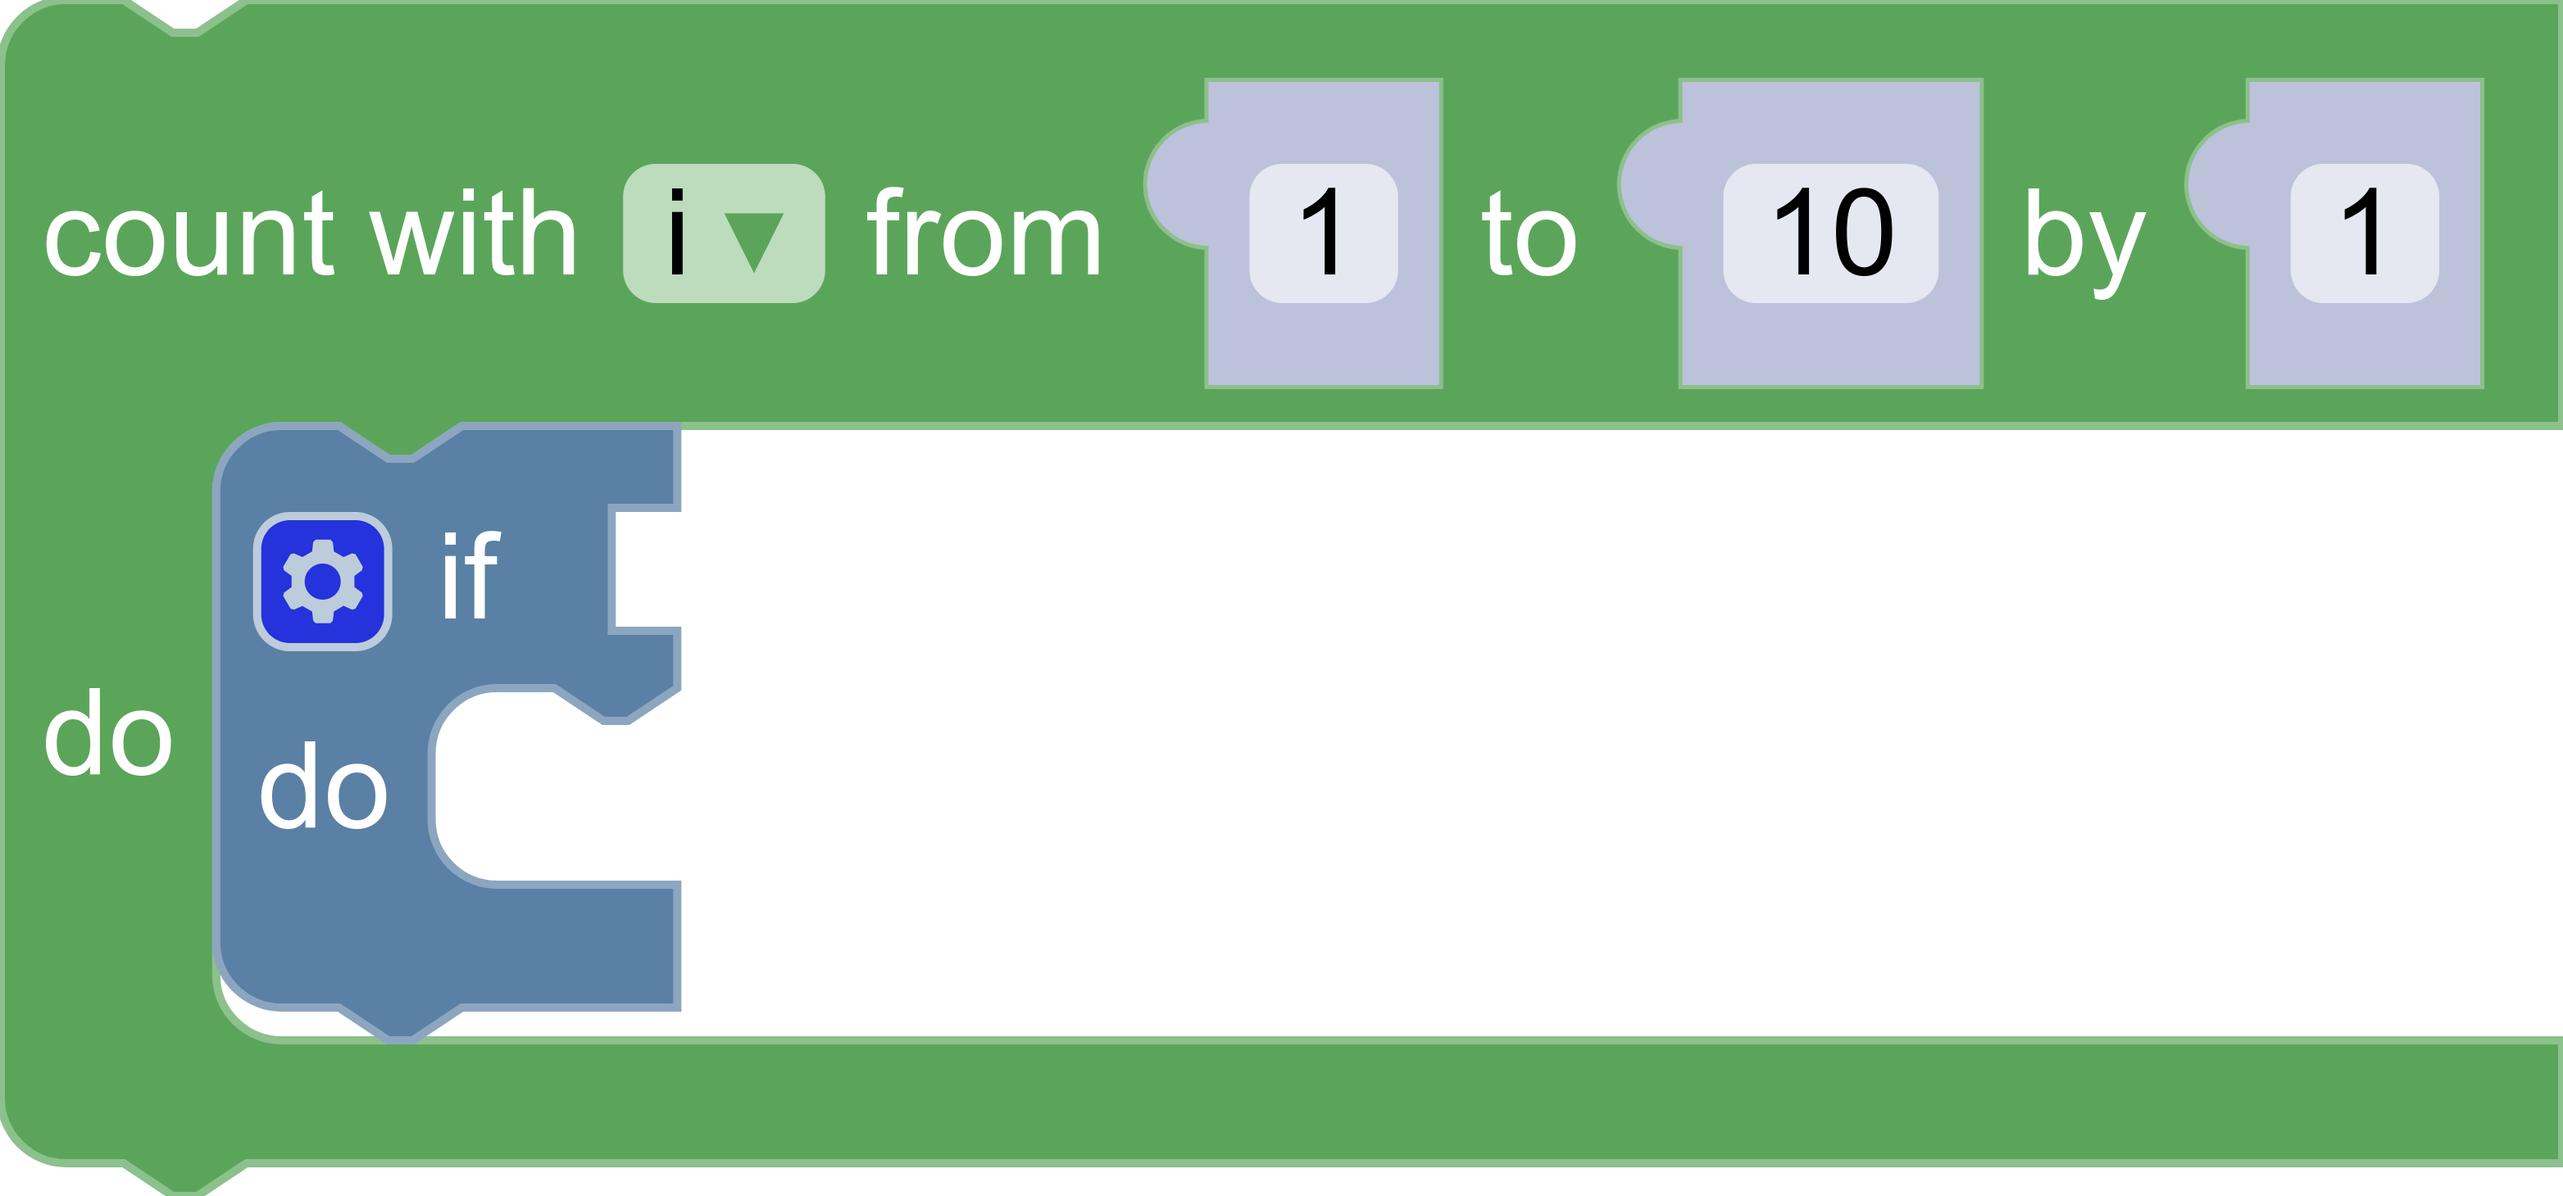
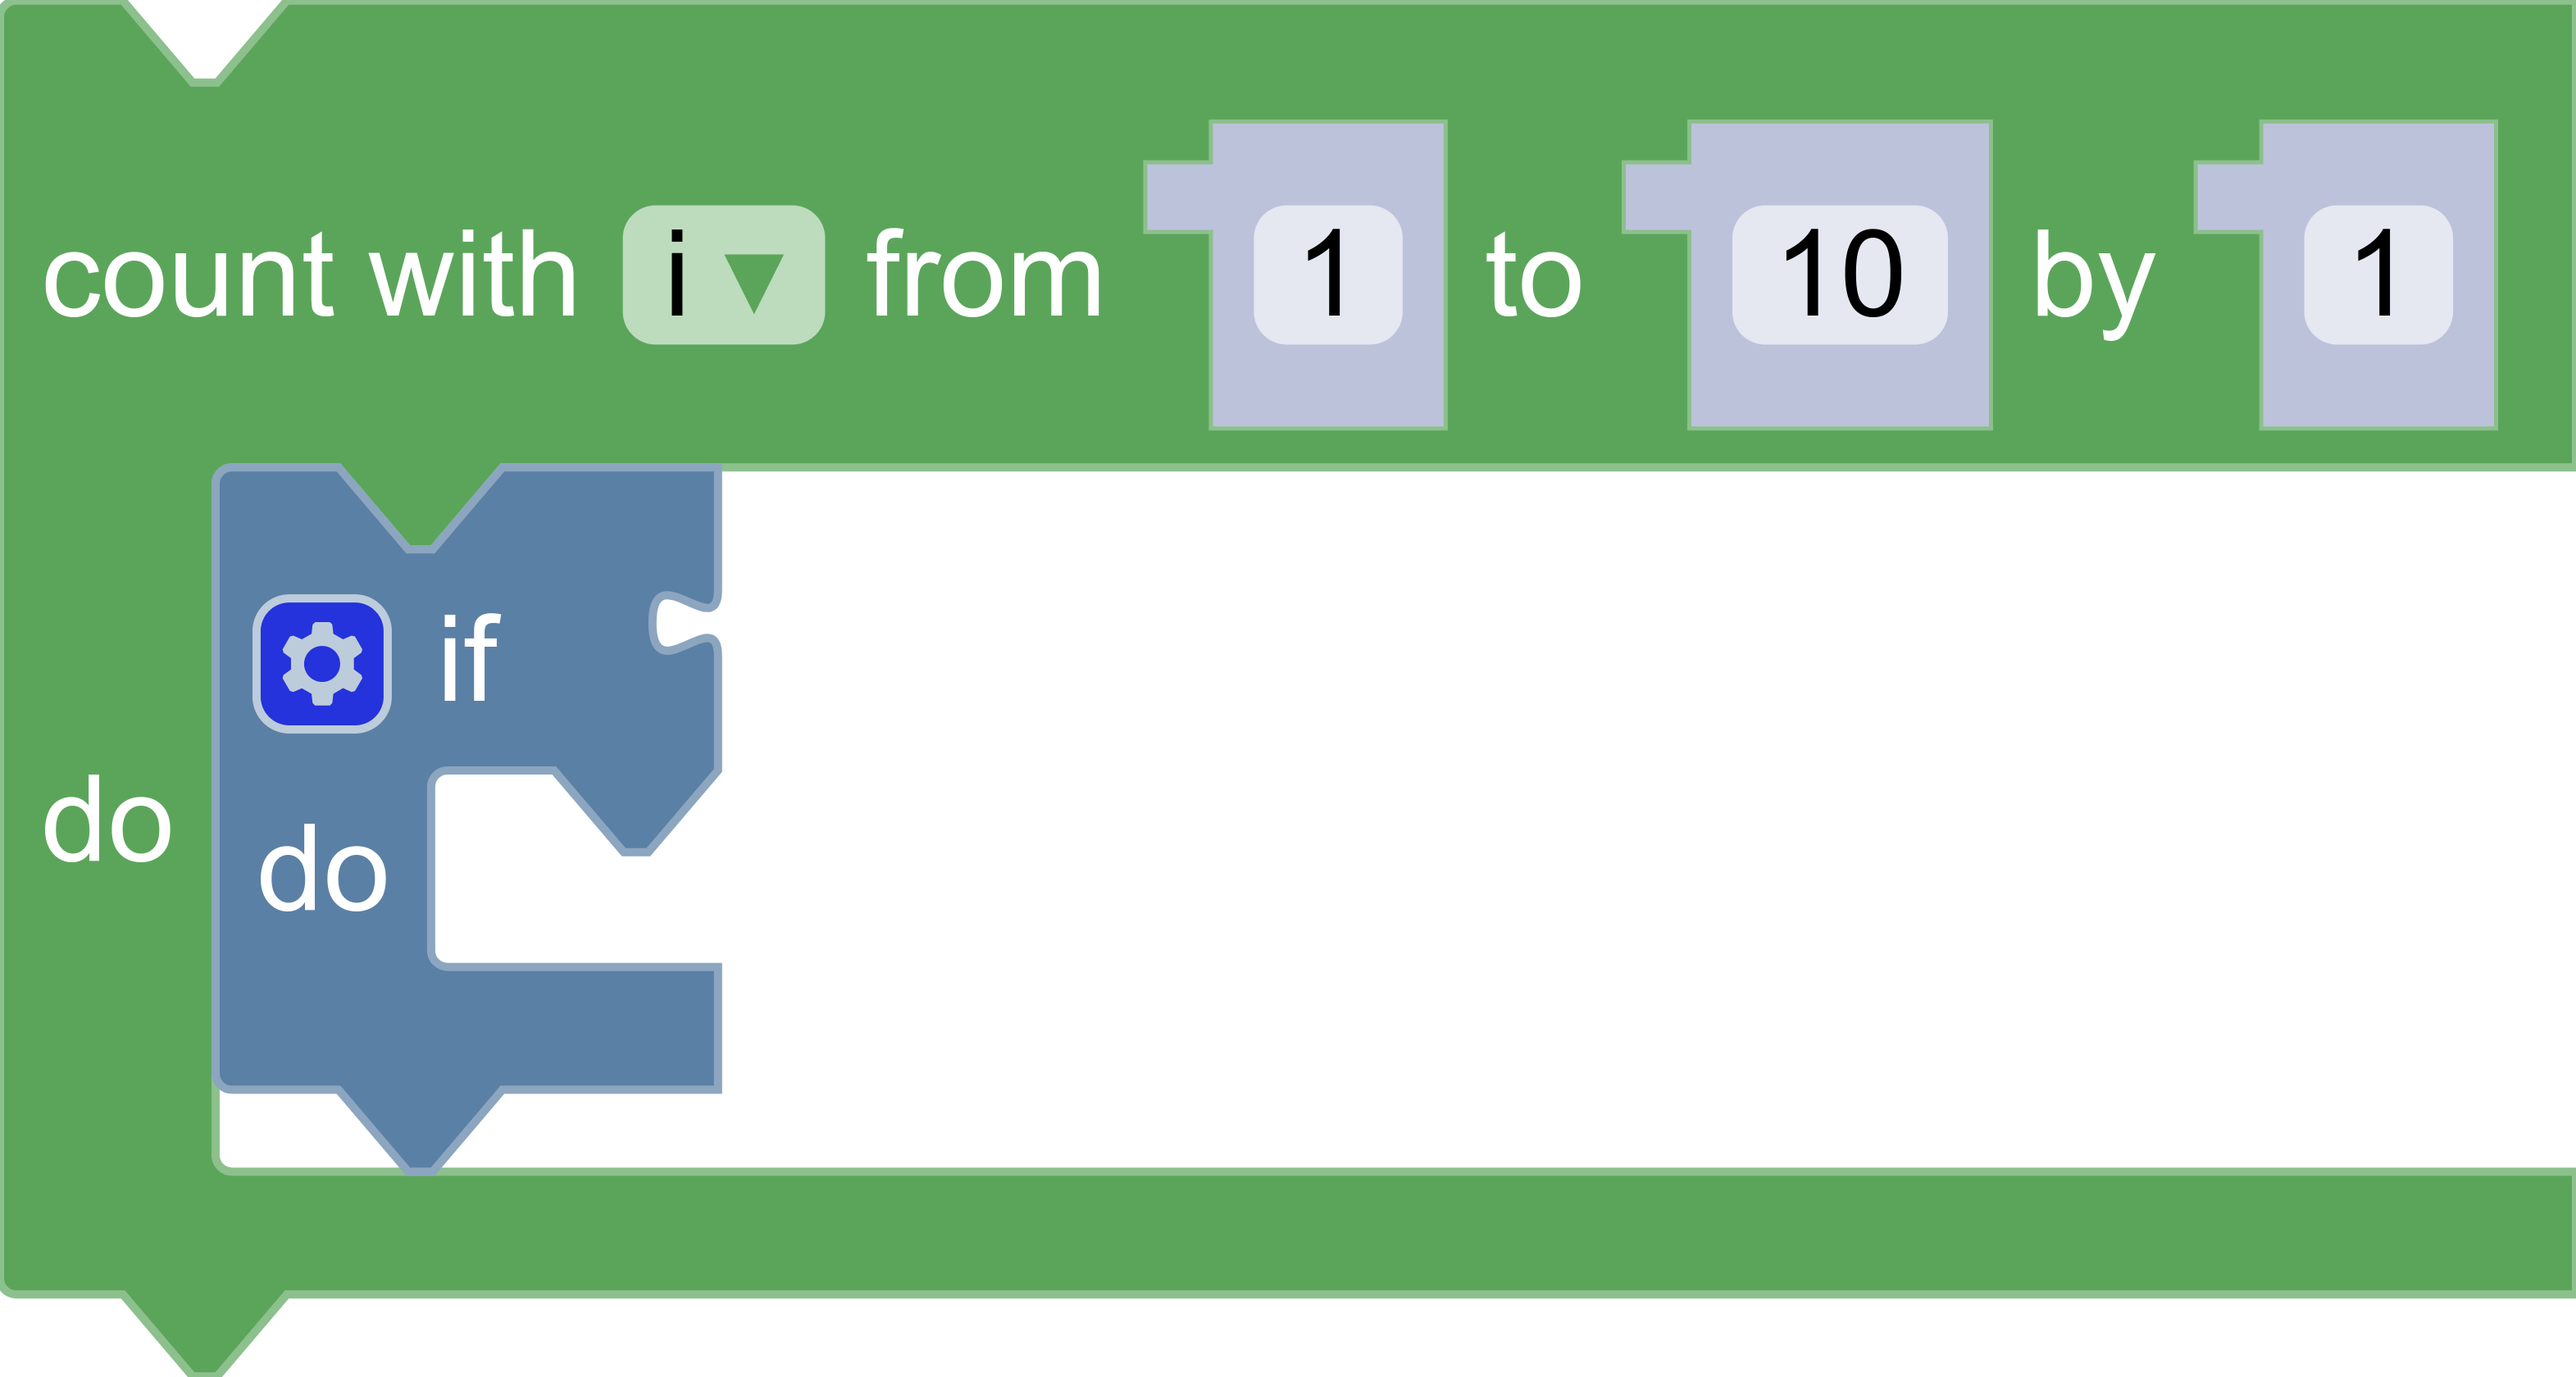
Finish rewrite

diff --git a/codelabs/custom_renderer.md b/codelabs/custom_renderer.md
@@ -136,7 +136,7 @@ The resulting block has triangular previous and next connections, and skinny inp
 
 ![](assets/custom-renderer/custom_constants.png)
 
-## Change connection shapes
+## Understand connection shapes
 
 A common use case of a custom renderer is changing the shape of connections. This requires a more detailed understanding of how a block is drawn and how SVG paths are defined.
 
@@ -148,7 +148,70 @@ Each sub-path is a string of [path commands](https://developer.mozilla.org/en-US
 
 While you can write SVG path commands as strings, Blockly provides a set of [utility functions](https://developers.google.com/blockly/reference/js/Blockly.utils.svgPaths) to make writing and reading paths easier.
 
-### Changing previous/next connection shape
+### Connection shapes
+
+A connection's shape is stored as an object with information about its width, height, and sub-path. These objects are created in the constant provider's `init` function:
+
+```js
+/**
+ * Initialize shape objects based on the constants set in the constructor.
+ * @package
+ */
+Blockly.blockRendering.ConstantProvider.prototype.init = function() {
+  /**
+   * An object containing sizing and path information about notches.
+   * @type {!Object}
+   */
+  this.NOTCH = this.makeNotch();
+
+  /**
+   * An object containing sizing and path information about puzzle tabs.
+   * @type {!Object}
+   */
+  this.PUZZLE_TAB = this.makePuzzleTab();
+
+  // Additional code has been removed for brevity.
+};
+```
+
+As a rule of thumb, **properties that are primitives should be set in the constructor, while objects should be set in `init`**. This separation allows a subclass to override a constant such as `NOTCH_WIDTH` and see the change reflected in objects that depend on the constant.
+
+### `shapeFor`
+
+The `shapeFor` function on a constants provider maps from connection to connection shape. Here is the default implementation, which returns a puzzle tab for input/output connections and a notch for previous/next connections:
+
+```js
+/**
+ * Get an object with connection shape and sizing information based on the type
+ * of the connection.
+ * @param {!Blockly.RenderedConnection} connection The connection to find a
+ *     shape object for
+ * @return {!Object} The shape object for the connection.
+ * @package
+ */
+Blockly.blockRendering.ConstantProvider.prototype.shapeFor = function(
+    connection) {
+  switch (connection.type) {
+    case Blockly.INPUT_VALUE:
+    case Blockly.OUTPUT_VALUE:
+      return this.PUZZLE_TAB;
+    case Blockly.PREVIOUS_STATEMENT:
+    case Blockly.NEXT_STATEMENT:
+      return this.NOTCH;
+    default:
+      throw Error('Unknown connection type');
+  }
+};
+```
+
+## Change conenction shapes
+
+In this step you will define and use new shapes for previous/next connections and input/output connections. This takes three steps:
+1. Define new shape objects.
+1. Override `init` to store the new shape objects.
+1. Override `shapeFor` to return the new objects.
+
+### Define a previous/next connection shape
 
 The outline path is drawn clockwise around the block, starting at the top left. As a result the previous connection is drawn from left to right, while the next connection is drawn from right to left.
 
@@ -158,15 +221,14 @@ Previous and next connections are defined by the same object. The object has fou
 - `pathLeft`: The sub-path that describes the connection when drawn from left to right.
 - `pathRight`: The sub-path that describes the connection when drawn from right to left.
 
-The constants provider calls `makeNotch()` during initialization to create this object. You can override the function on your `CustomConstantsProvider`. Note that `NOTCH_WIDTH` and `NOTCH_HEIGHT` have already been overridden in the constructor.
+Define a new function called `makeRectangularPreviousConn`. Note that `NOTCH_WIDTH` and `NOTCH_HEIGHT` have already been overridden in the constructor.
 
 ```js
 /**
- * Override the `makeNotch` function to return a rectangular notch for previous
- * and next connections.
+ * Return a rectangular notch for use with previous and next connections.
  * @override
  */
-CustomConstantsProvider.prototype.makeNotch = function() {
+CustomConstantsProvider.prototype.makeRectangularPreviousConn = function() {
   var width = this.NOTCH_WIDTH;
   var height = this.NOTCH_HEIGHT;
 
@@ -194,7 +256,7 @@ CustomConstantsProvider.prototype.makeNotch = function() {
 };
 ```
 
-### Changing input/output connection shape
+### Define input/output connection shape
 
 By the same logic input and output connections are drawn in two directions: top to bottom, and bottom to top. The object contains four properties:
 - `width`
@@ -202,15 +264,14 @@ By the same logic input and output connections are drawn in two directions: top 
 - `pathUp`
 - `pathDown`
 
-The function to override is `makePuzzleTab()`:
+Define a new function called `makeRectangularInputConn`:
 
 ```js
 /**
- * Override the `makePuzzleTab` function to return a rectangular puzzle tab for
- * input and output connections.
+ * Return a rectangular puzzle tab for use with input and output connections.
  * @override
  */
-CustomConstantsProvider.prototype.makePuzzleTab = function() {
+CustomConstantsProvider.prototype.makeRectangularInputConn = function() {
   var width = this.TAB_WIDTH;
   var height = this.TAB_HEIGHT;
 
@@ -239,6 +300,45 @@ CustomConstantsProvider.prototype.makePuzzleTab = function() {
 };
 ```
 
+### Override init
+
+Override the `init` function and store the new objects as `RECT_PREV_NEXT` and `RECT_INPUT_OUTPUT`. Make sure you call the superclass `init` function to store other objects that you have not overridden.
+
+```js
+/**
+ * @override
+ */
+CustomConstantsProvider.prototype.init = function() {
+  CustomConstantsProvider.superClass_.init.call(this);
+  // Add calls to create shape objects for the new connection shapes.
+  this.RECT_PREV_NEXT = this.makeRectangularPreviousConn();
+  this.RECT_INPUT_OUTPUT = this.makeRectangularInputConn();
+};
+```
+
+### Override shapeFor
+
+Next, override the `shapeFor` function and return your new objects:
+
+```js
+/**
+ * @override
+ */
+CustomConstantsProvider.prototype.shapeFor = function(
+    connection) {
+  switch (connection.type) {
+    case Blockly.INPUT_VALUE:
+    case Blockly.OUTPUT_VALUE:
+      return this.RECT_INPUT_OUTPUT;
+    case Blockly.PREVIOUS_STATEMENT:
+    case Blockly.NEXT_STATEMENT:
+      return this.RECT_PREV_NEXT;
+    default:
+      throw Error('Unknown connection type');
+  }
+};
+```
+
 ### The result
 
 The resulting block has rectangular connections for all four connection types.
@@ -247,137 +347,32 @@ The resulting block has rectangular connections for all four connection types.
 
 ## Typed connection shapes
 
-In this step we will create a renderer that sets connection shapes at runtime based on a connection's type checks.
+In this step we will create a renderer that sets connection shapes at runtime based on a connection's type checks. We will use the default connection shapes and the shapes defined in the previous steps.
 
+### Override shapeFor
 
-### Define your renderer and constants provider
-Create and include a new file named `typed_connection_shapes.js`, and add it to the renderer dropdown.
-
-Define a renderer named `TypedConnectionShapeRenderer` and a constants provider named `TypedConnectionShapeProvider`.
-
-```js
-TypedConnectionShapeRenderer = function(name) {
-  TypedConnectionShapeRenderer.superClass_.constructor.call(this, name);
-};
-Blockly.utils.object.inherits(TypedConnectionShapeRenderer,
-    Blockly.blockRendering.Renderer);
-
-Blockly.blockRendering.register('typed_connection_shapes',
-    TypedConnectionShapeRenderer);
-
-TypedConnectionShapeProvider = function() {
-  TypedConnectionShapeProvider.superClass_.constructor.call(this);
-};
-Blockly.utils.object.inherits(TypedConnectionShapeProvider,
-    Blockly.blockRendering.ConstantProvider);
-
-TypedConnectionShapeRenderer.prototype.makeConstants_ = function() {
-  return new TypedConnectionShapeProvider();
-};
-```
-
-### Define shapes
-
-Define the `makeSquared` and `makeRounded` functions to return rectangular and rounded shapes respectively.
-
-```js
-/**
- * Create a new function to return a rectangular puzzle tab that works for input
- * and output connections.
- */
-TypedConnectionShapeProvider.prototype.makeSquared = function() {
-  var width = this.TAB_WIDTH;
-  var height = this.TAB_HEIGHT;
-
-  function makeMainPath(up) {
-    return Blockly.utils.svgPaths.line(
-        [
-          Blockly.utils.svgPaths.point(-width, 0),
-          Blockly.utils.svgPaths.point(0, -1 * up * height),
-          Blockly.utils.svgPaths.point(width, 0)
-        ]);
-  }
-
-  var pathUp = makeMainPath(1);
-  var pathDown = makeMainPath(-1);
-
-  return {
-    width: width,
-    height: height,
-    pathDown: pathDown,
-    pathUp: pathUp
-  };
-};
-
-/**
- * Create a new function to return a rounded puzzle tab that works for input and
- * output connections.
- */
-TypedConnectionShapeProvider.prototype.makeRounded = function() {
-  var height = this.TAB_HEIGHT;
-
-  // The 'up' and 'down' versions of the paths are the same, but the Y sign
-  // flips.
-  function makeMainPath(up) {
-    var width = height / 2;
-    return Blockly.utils.svgPaths.arc(
-        'a',
-        '0 0 ' + (up ? 1 : 0),
-        width,
-        Blockly.utils.svgPaths.point(0, (up ? -1 : 1) * height)
-    );
-  }
-
-  var pathUp = makeMainPath(true);
-  var pathDown = makeMainPath(false);
-
-  return {
-    width: height / 2,
-    height: height,
-    pathDown: pathDown,
-    pathUp: pathUp
-  };
-};
-```
-
-### Use the shapes
-* Override the `init` function on the `TypedConnectionShapeProvider`.
-* Call the superclass `init` function to set up default properties.
-* Create and save the new connection shapes in `this.SQUARED` and `this.ROUNDED`.
-
-```js
-/**
- * @override
- */
-TypedConnectionShapeProvider.prototype.init = function() {
-  TypedConnectionShapeProvider.superClass_.init.call(this);
-  // Add calls to create shape objects for the new connection shapes.
-  this.SQUARED = this.makeSquared();
-  this.ROUNDED = this.makeRounded();
-};
-```
 Override the shapeFor function to inspect the connection's type checks array and return the correct connection shape:
-- Return a rounded tab for inputs and outputs that accept numbers and strings.
-- Return a squared tab for other inputs and outputs.
+- Return a rectangular tab for inputs and outputs that accept numbers and strings.
+- Return the default puzzle tab for other inputs and outputs.
 - Return the normal notch for previous and next connections.
 
 ```js
 /**
  * @override
  */
-TypedConnectionShapeProvider.prototype.shapeFor = function(connection) {
+CustomConstantsProvider.prototype.shapeFor = function(connection) {
   var checks = connection.getCheck();
   switch (connection.type) {
     case Blockly.INPUT_VALUE:
     case Blockly.OUTPUT_VALUE:
       // Includes doesn't work in IE.
       if (checks && checks.indexOf('Number') != -1) {
-        return this.ROUNDED;
+        return this.RECT_INPUT_OUTPUT;
       }
       if (checks && checks.indexOf('String') != -1) {
-        return this.ROUNDED;
+        return this.RECT_INPUT_OUTPUT;
       }
-      return this.SQUARED;
+      return this.PUZZLE_TAB;
     case Blockly.PREVIOUS_STATEMENT:
     case Blockly.NEXT_STATEMENT:
       return this.NOTCH;
@@ -389,9 +384,15 @@ TypedConnectionShapeProvider.prototype.shapeFor = function(connection) {
 
 ### The result
 
-In this screenshot, the number inputs and outputs are semicircular.  The boolean input on the if block is rectangular.
+In this screenshot, the number inputs and outputs are rectangular.  The boolean input on the if block is a puzzle tab.
 ![](assets/custom-renderer/typed_connection_shapes.png)
 
 ## Summary
 
-Custom renderers are a powerful way to change the look and feel of Blockly.  In this codelab you worked through four different levels of customization of a renderer.
+Custom renderers are a powerful way to change the look and feel of Blockly.  In this codelab you learned:
+* You learned how to declare and register a custom renderer.
+* How to replace a renderer's constant provider.
+* How to override primitive constants, such as `NOTCH_HEIGHT`.
+* How to define and use a complex constant, such as a connection shape.
+* How to update the mapping from connection to connection shape.
+
